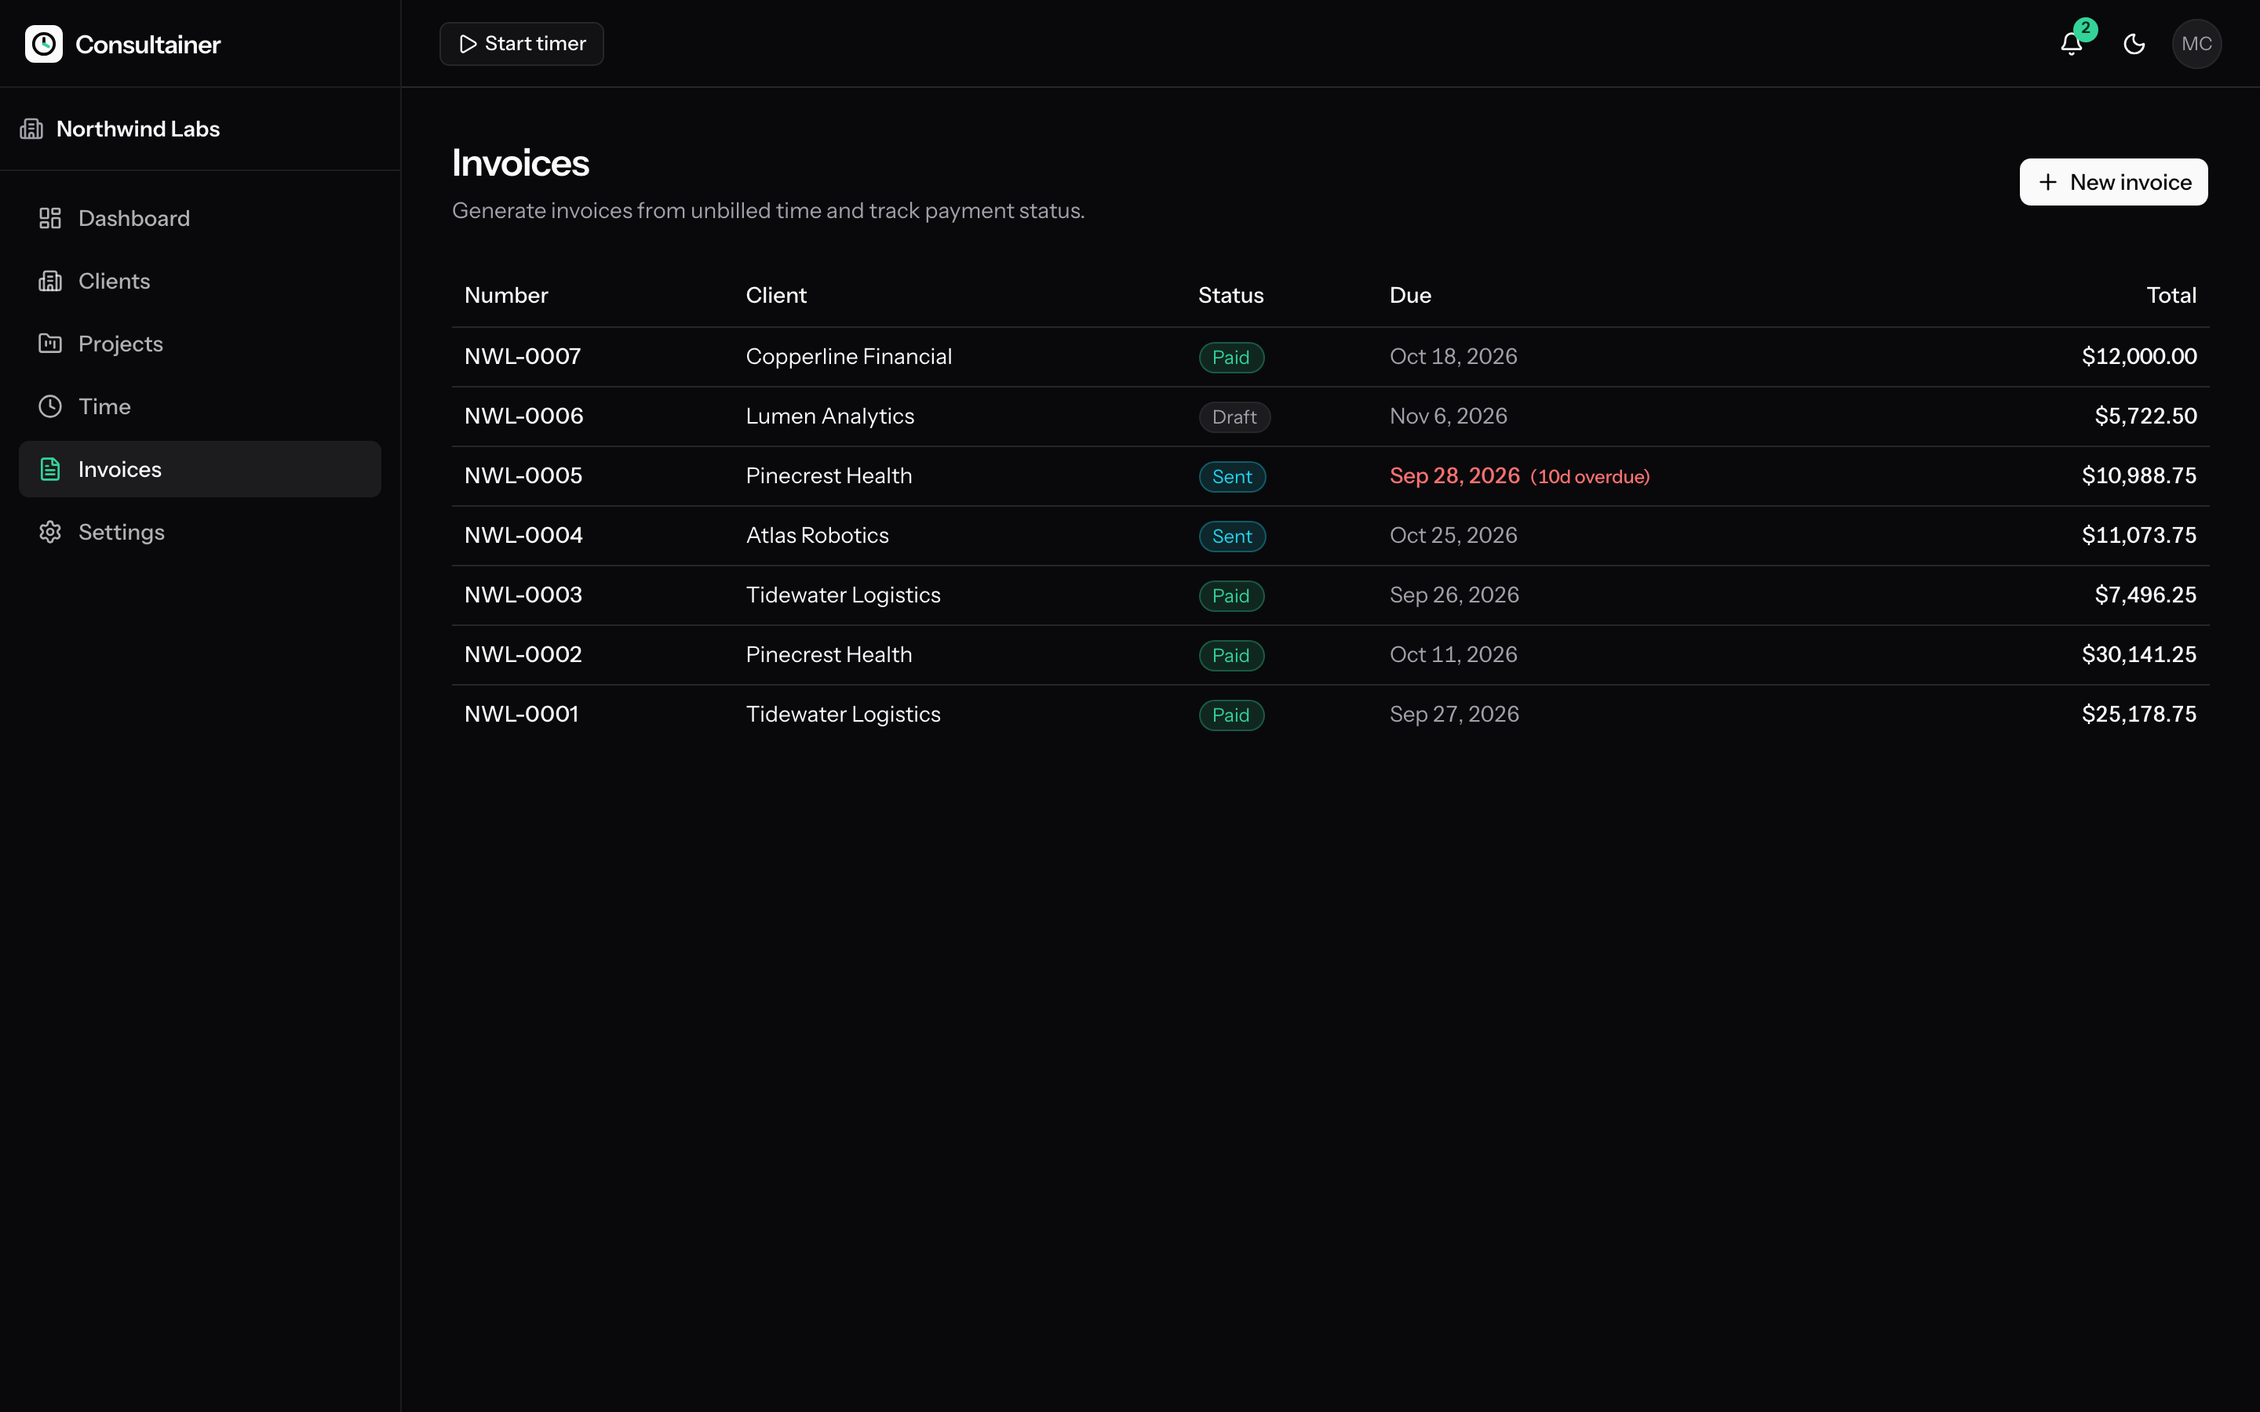
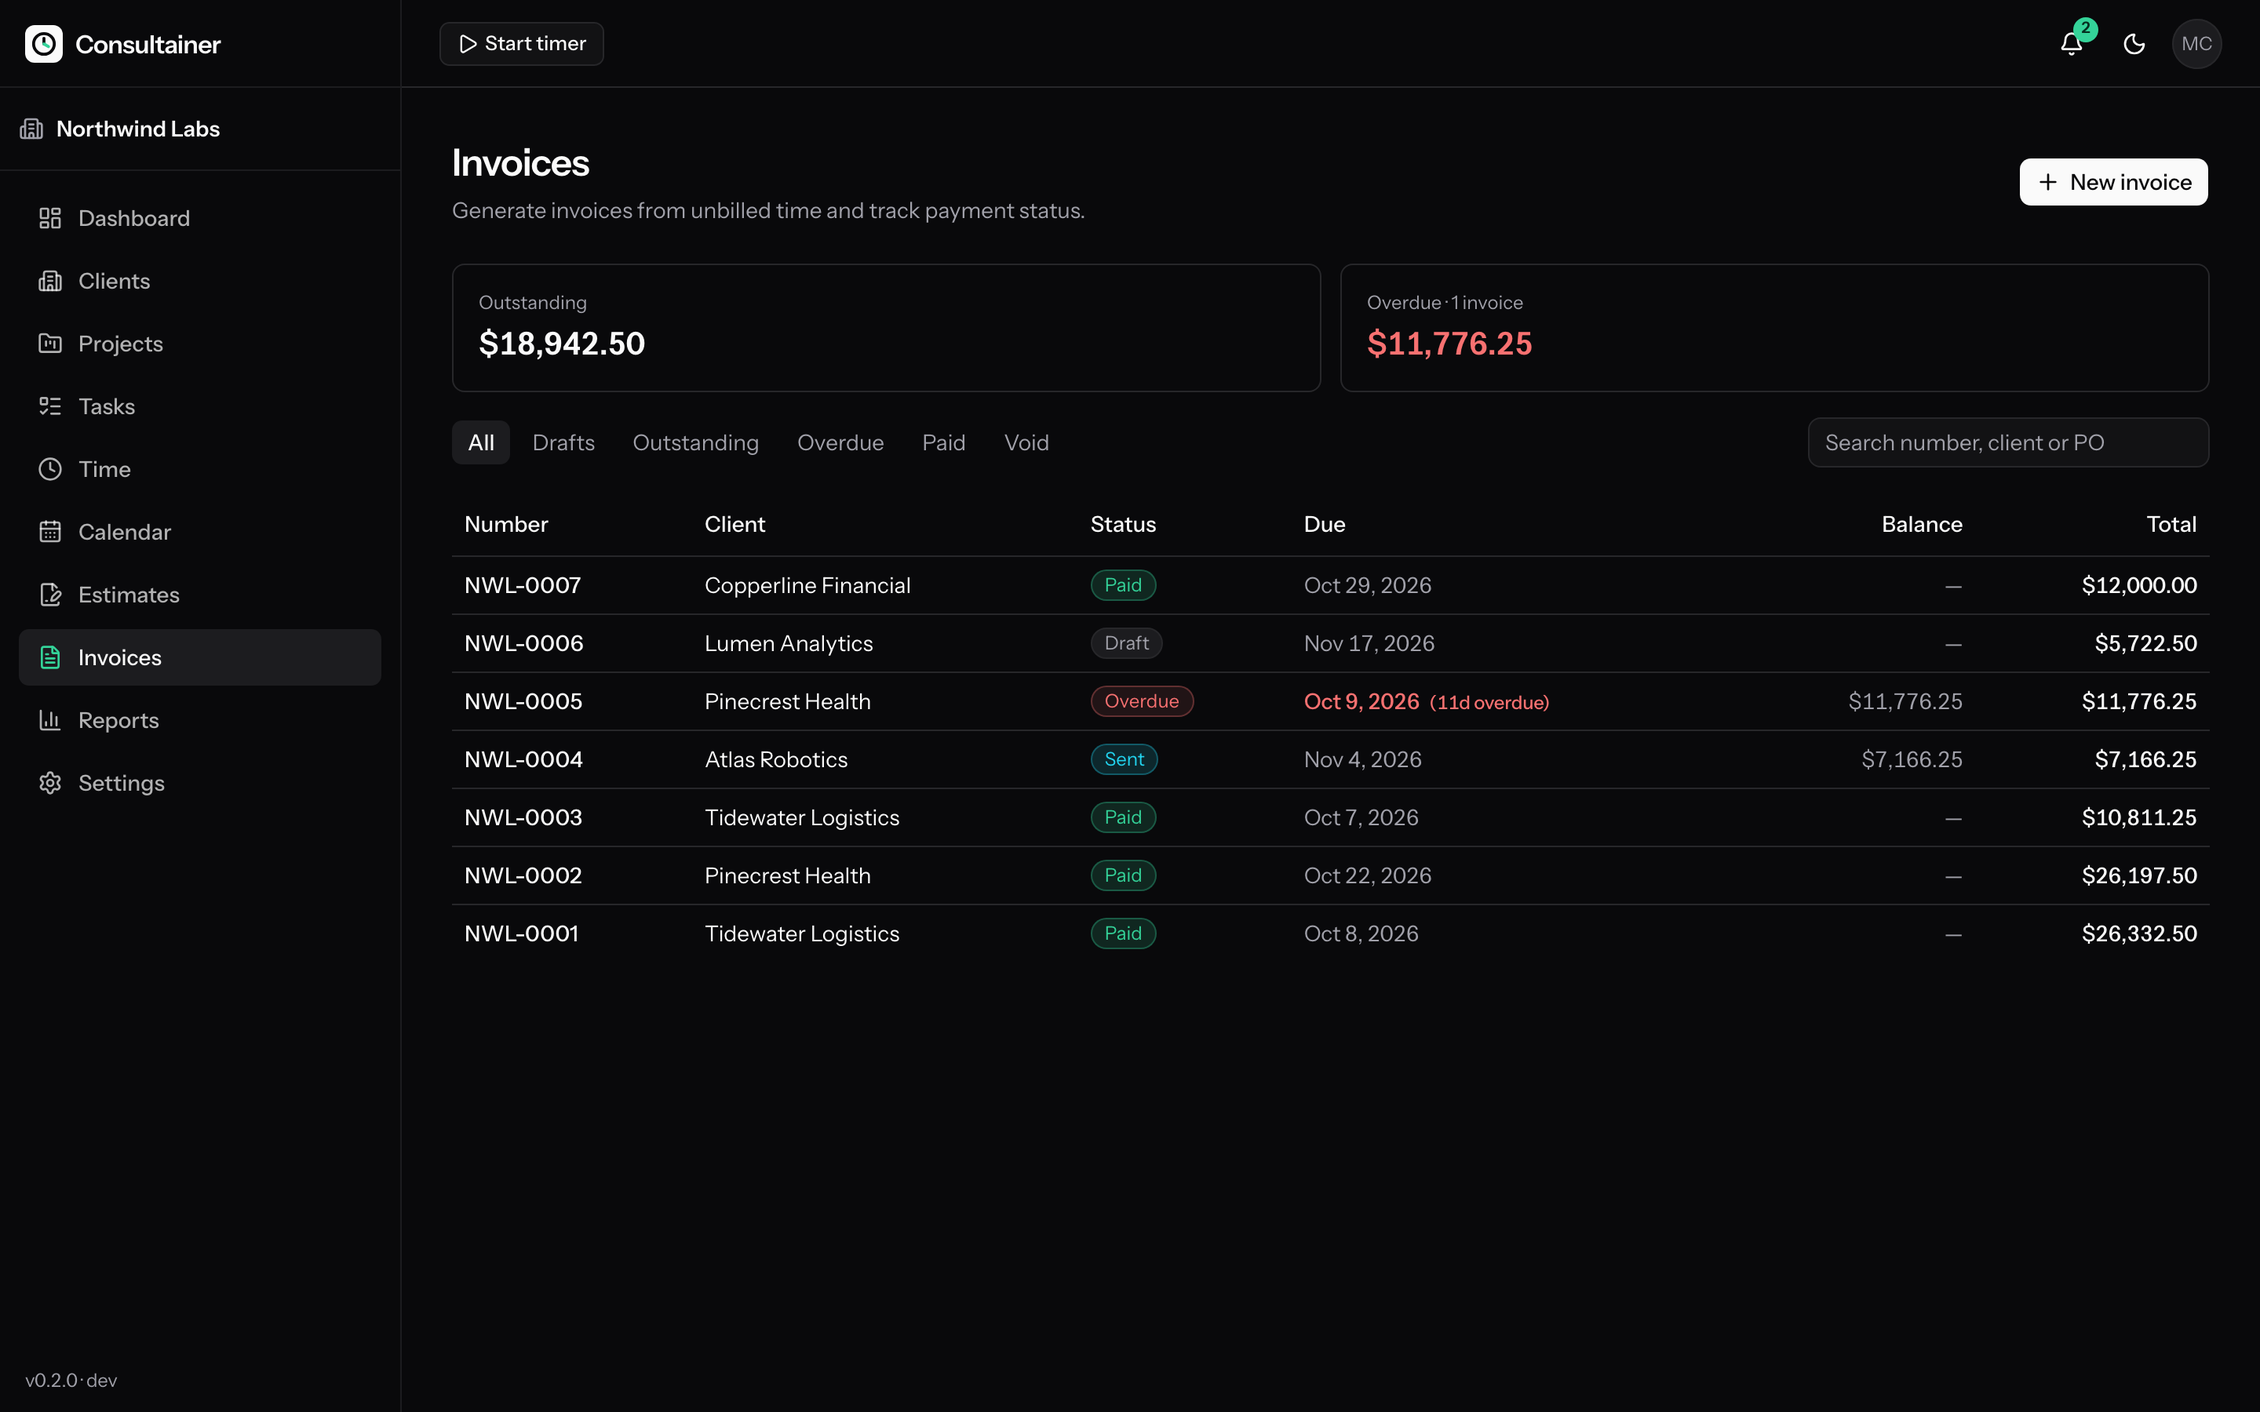
Website: a month at a demo consultancy, with more screenshots
A Scenarios section on consultainer.app and in the README walks through a
month at the fictional Northwind Labs: email setup, a deposit before
kickoff, an invoice sent with its PDF and timesheet, the client's view,
the phone app and reports. scripts/screenshots.mjs now captures those
scenes, and the demo data gains clock times, a viewed client invoice,
payments, cost rates and business details. All screenshots are refreshed.

Claude-Session: https://claude.ai/code/session_019gPBc82RAL3CvhBrb6EBnw

diff --git a/site/index.html b/site/index.html
@@ -82,12 +82,26 @@
     .row h3 { font-size: 22px; letter-spacing: -0.015em; margin: 0 0 10px; font-weight: 600; }
     .row p { color: var(--muted); margin: 0; }
 
+    .scenarios { display: grid; grid-template-columns: 1fr 1fr; gap: 40px 32px; }
+    .scenario { margin: 0; display: flex; flex-direction: column; gap: 14px; }
+    .scenario figcaption { display: flex; flex-direction: column; gap: 6px; }
+    .scenario .step {
+      font: 500 12px/1 "JetBrains Mono", ui-monospace, monospace; color: var(--brand);
+      text-transform: uppercase; letter-spacing: 0.08em;
+    }
+    .scenario h3 { font-size: 19px; letter-spacing: -0.01em; margin: 0; font-weight: 600; }
+    .scenario p { color: var(--muted); margin: 0; font-size: 15px; }
+    .scenario.phone { flex-direction: row; align-items: center; gap: 28px; }
+    .scenario.phone picture { flex: 0 0 38%; }
+    .scenario.phone .shot { border-radius: 20px; }
+
     footer {
       margin-top: 112px; padding: 32px 0 48px; border-top: 1px solid var(--border);
       color: var(--muted); font-size: 14px; display: flex; justify-content: space-between; gap: 16px; flex-wrap: wrap;
     }
     @media (max-width: 820px) {
-      .quickstart, .row, .row:nth-child(even) { grid-template-columns: 1fr; gap: 24px; }
+      .quickstart, .row, .row:nth-child(even), .scenarios { grid-template-columns: 1fr; gap: 24px; }
+      .scenario.phone picture { flex-basis: 45%; }
       .row:nth-child(even) .copy { order: 0; }
       header { padding-top: 40px; }
       nav .links a:not(.gh) { display: none; }
@@ -111,6 +125,7 @@
       <div class="links">
         <a href="#quickstart">Quickstart</a>
         <a href="#tour">Tour</a>
+        <a href="#scenarios">Scenarios</a>
         <a href="docs/">Docs</a>
         <a class="gh" href="https://github.com/Armistice-Group/retainer">GitHub</a>
       </div>
@@ -183,8 +198,8 @@ docker compose up -d</pre>
         </div>
         <div class="row">
           <div class="copy">
-            <h3>Invoices from unbilled work</h3>
-            <p>Pull unbilled time, completed milestones, and expenses into an invoice in a few clicks. Email clients a link to view and pay it — and know when they open it. Take payment through Stripe or Mercury, push to QuickBooks.</p>
+            <h3>Invoices from unbilled work, or a set amount</h3>
+            <p>Pull unbilled time, completed milestones, and expenses into an invoice in a few clicks, or bill a set fee or deposit. Email clients a link to view and pay it, with the PDF and timesheet attached if they want them — and know when they open it. Take payment through Stripe or Mercury, push to QuickBooks.</p>
           </div>
           <picture>
             <source srcset="screenshots/invoices-dark.png" media="(prefers-color-scheme: dark)" />
@@ -201,6 +216,83 @@ docker compose up -d</pre>
             <img class="shot" src="screenshots/client-light.png" width="2880" height="1800" loading="lazy" alt="Client page with projects, invoices, and a bi-weekly billing cycle" />
           </picture>
         </div>
+      </div>
+    </section>
+
+    <section id="scenarios">
+      <h2>A month at a small consultancy</h2>
+      <p class="sub">
+        Northwind Labs is made up: four people, five clients, a mix of hourly, flat-fee and retainer work.
+        Here's how a month of it goes in Consultainer. Every screen is the real app on the demo data
+        that ships in the repo, so you can load it and click around yourself.
+      </p>
+      <div class="scenarios">
+        <figure class="scenario">
+          <picture>
+            <source srcset="screenshots/email-setup-dark.png" media="(prefers-color-scheme: dark)" />
+            <img class="shot" src="screenshots/email-setup-light.png" loading="lazy" alt="Email settings panel with SMTP chosen and Postmark's server filled in" />
+          </picture>
+          <figcaption>
+            <div class="step">Day 1 · Setup</div>
+            <h3>Email in two minutes, from the browser</h3>
+            <p>Maya, the owner, picks Resend or any SMTP server (Postmark, SES, Google Workspace…), pastes the settings and sends herself a test, or a sample of the invoice email clients get. No config files, no restart.</p>
+          </figcaption>
+        </figure>
+        <figure class="scenario">
+          <picture>
+            <source srcset="screenshots/deposit-dark.png" media="(prefers-color-scheme: dark)" />
+            <img class="shot" src="screenshots/deposit-light.png" loading="lazy" alt="New invoice form billing a set amount as a deposit" />
+          </picture>
+          <figcaption>
+            <div class="step">Day 2 · Kickoff</div>
+            <h3>Bill the deposit before any work is logged</h3>
+            <p>Atlas Robotics signs phase 2. Maya bills 50% up front: one line, $9,000, a note saying what it covers. Ticked as a deposit, the payment becomes Atlas's credit for the phase 2 invoices.</p>
+          </figcaption>
+        </figure>
+        <figure class="scenario">
+          <picture>
+            <source srcset="screenshots/email-invoice-dark.png" media="(prefers-color-scheme: dark)" />
+            <img class="shot" src="screenshots/email-invoice-light.png" loading="lazy" alt="Email invoice dialog with the PDF attached and the timesheet included" />
+          </picture>
+          <figcaption>
+            <div class="step">Day 30 · Invoicing</div>
+            <h3>Their accounts team wants the PDF and a timesheet</h3>
+            <p>Atlas's AP team files PDFs and checks hours. Maya attaches the PDF and includes the timesheet: every entry's date, start and end time, who did it and what. Ken still gets the link to pay online.</p>
+          </figcaption>
+        </figure>
+        <figure class="scenario">
+          <picture>
+            <source srcset="screenshots/client-invoice-dark.png" media="(prefers-color-scheme: dark)" />
+            <img class="shot" src="screenshots/client-invoice-light.png" loading="lazy" alt="Client-facing invoice page with payment details and a time detail table" />
+          </picture>
+          <figcaption>
+            <div class="step">Day 31 · The client's side</div>
+            <h3>What Atlas sees when they open it</h3>
+            <p>No login: the invoice, how to pay, and the timesheet, with any screenshots the team marked as evidence. Maya sees under Activity that Ken opened the email, the page and the PDF.</p>
+          </figcaption>
+        </figure>
+        <figure class="scenario phone">
+          <picture>
+            <source srcset="screenshots/phone-dark.png" media="(prefers-color-scheme: dark)" />
+            <img class="shot" src="screenshots/phone-light.png" loading="lazy" alt="Phone view with today's hours, a timer and recent entries" />
+          </picture>
+          <figcaption>
+            <div class="step">Every day</div>
+            <h3>Log time from your phone</h3>
+            <p>Sam, a contractor, installs the phone app from Chrome, starts a timer on Fleet Dashboard, and shares a screenshot straight into a time entry as evidence.</p>
+          </figcaption>
+        </figure>
+        <figure class="scenario">
+          <picture>
+            <source srcset="screenshots/reports-dark.png" media="(prefers-color-scheme: dark)" />
+            <img class="shot" src="screenshots/reports-light.png" loading="lazy" alt="Reports page with revenue and hours" />
+          </picture>
+          <figcaption>
+            <div class="step">Month end</div>
+            <h3>See where the month landed</h3>
+            <p>Hours, invoiced, received and outstanding, utilization by person and profit by project, with each table a CSV away, for Maya's monthly review.</p>
+          </figcaption>
+        </figure>
       </div>
     </section>
 

diff --git a/prisma/seed-demo.ts b/prisma/seed-demo.ts
@@ -39,6 +39,7 @@ async function main() {
       defaultCurrency: "USD",
       defaultBillRate: 175,
       nextInvoiceNumber: 1,
+      businessAddress: "100 Example Ave, Suite 4\nPortland, OR 97201",
     },
   });
 
@@ -72,15 +73,18 @@ async function main() {
   const people = [
     // billRate: their default when put on a project; Priya has none, so she
     // starts at the org's default.
-    { name: "Maya Chen", email: "maya@northwind.example", role: "OWNER", title: "Principal", billRate: 210 },
-    { name: "Diego Alvarez", email: "diego@northwind.example", role: "ADMIN", title: "Staff Engineer", billRate: 185 },
-    { name: "Priya Nair", email: "priya@northwind.example", role: "MEMBER", title: "Security Engineer" },
-    { name: "Sam Okafor", email: "sam@contractor.example", role: "MEMBER", title: "Designer", contractor: true, billRate: 140 },
+    { name: "Maya Chen", email: "maya@northwind.example", role: "OWNER", title: "Principal", billRate: 210, costRate: 115 },
+    { name: "Diego Alvarez", email: "diego@northwind.example", role: "ADMIN", title: "Staff Engineer", billRate: 185, costRate: 98 },
+    { name: "Priya Nair", email: "priya@northwind.example", role: "MEMBER", title: "Security Engineer", costRate: 92 },
+    { name: "Sam Okafor", email: "sam@contractor.example", role: "MEMBER", title: "Designer", contractor: true, billRate: 140, costRate: 95 },
   ] as const;
 
   const users: User[] = [];
   for (const p of people) {
-    const user = await prisma.user.create({ data: { name: p.name, email: p.email, passwordHash } });
+    // Maya has used it for a while and closed the dashboard's setup card.
+    const user = await prisma.user.create({
+      data: { name: p.name, email: p.email, passwordHash, setupCardDismissedAt: p.role === "OWNER" ? daysAgo(30) : null },
+    });
     await prisma.membership.create({
       data: {
         userId: user.id,
@@ -89,6 +93,7 @@ async function main() {
         title: p.title,
         employmentType: "contractor" in p ? "CONTRACTOR" : "EMPLOYEE",
         billRate: "billRate" in p ? p.billRate : null,
+        costRate: p.costRate,
       },
     });
     users.push(user);
@@ -303,6 +308,8 @@ async function main() {
       );
       if (theirs.length === 0 || rand() < 0.12) continue;
       const count = theirs.length > 1 && rand() < 0.5 ? 2 : 1;
+      // The day starts at 9:00; a second entry follows a lunch break.
+      let startMinute = 9 * 60;
       for (let i = 0; i < count; i++) {
         const p = pick(theirs);
         const hours = Math.round((count === 2 ? 2 + rand() * 3 : 4 + rand() * 4) * 4) / 4;
@@ -318,8 +325,11 @@ async function main() {
             hours,
             description: pick(p.def.work),
             billable: rand() > 0.08,
+            startMinute,
+            endMinute: startMinute + Math.round(hours * 60),
           },
         });
+        startMinute += Math.round(hours * 60) + 45;
         entries.push({ id: entry.id, projectId: p.project.id, userId: user.id, date, hours, rate });
       }
     }
@@ -392,7 +402,23 @@ async function main() {
   await invoiceFor(tidewater, 80, 42, "PAID", 41);
   await invoiceFor(pinecrest, 50, 28, "PAID", 27);
   const tidewaterCycleInvoice = await invoiceFor(tidewater, 42, 28, "PAID", 27, "NET15");
-  await invoiceFor(atlas, 32, 14, "SENT", 13);
+  // Atlas's sent invoice: emailed with its timesheet, and opened by the
+  // client (the website shows its client page at /i/demo-atlas-invoice).
+  const atlasInvoice = await invoiceFor(atlas, 32, 14, "SENT", 13);
+  if (atlasInvoice) {
+    await prisma.invoice.update({
+      where: { id: atlasInvoice.id },
+      data: { viewToken: "demo-atlas-invoice", timeDetail: true, viewCount: 3, firstViewedAt: daysAgo(12), lastViewedAt: daysAgo(2) },
+    });
+    await prisma.invoiceEvent.createMany({
+      data: [
+        { invoiceId: atlasInvoice.id, type: "EMAILED", recipients: ["ops@atlasrobotics.example"], actorId: maya.id, createdAt: daysAgo(13) },
+        { invoiceId: atlasInvoice.id, type: "EMAIL_OPENED", createdAt: daysAgo(12) },
+        { invoiceId: atlasInvoice.id, type: "VIEWED", createdAt: daysAgo(12) },
+        { invoiceId: atlasInvoice.id, type: "PDF_VIEWED", createdAt: daysAgo(2) },
+      ],
+    });
+  }
   await invoiceFor(pinecrest, 28, 14, "SENT", 40); // issued long ago → overdue
   await invoiceFor(lumen, 26, 7, "DRAFT", 0);
 
@@ -429,6 +455,23 @@ async function main() {
     ],
   });
   await prisma.organization.update({ where: { id: org.id }, data: { nextInvoiceNumber: invoiceNumber } });
+
+  // Paid invoices were paid in full, by bank transfer, on the day they're marked paid.
+  for (const paid of await prisma.invoice.findMany({ where: { orgId: org.id, status: "PAID" } })) {
+    await prisma.payment.create({
+      data: {
+        orgId: org.id,
+        invoiceId: paid.id,
+        clientId: paid.clientId,
+        amount: paid.total,
+        currency: paid.currency,
+        receivedAt: dateOnly(paid.paidAt ?? paid.issueDate),
+        method: "ACH",
+        recordedById: maya.id,
+      },
+    });
+    await prisma.invoice.update({ where: { id: paid.id }, data: { amountPaid: paid.total } });
+  }
 
   // Expenses.
   const fleet = projects.find((p) => p.def.name === "Fleet Dashboard")!.project;

diff --git a/README.md b/README.md
@@ -12,6 +12,14 @@ Client, project, and billing management for consultants and contractors. Track c
 | ![Time tracking](docs/screenshots/time-light.png) | ![Project with budget and rates](docs/screenshots/project-light.png) |
 | ![Invoices](docs/screenshots/invoices-light.png) | ![Client with a billing cycle](docs/screenshots/client-light.png) |
 
+**A month at a fictional consultancy**, from the demo data:
+
+| | |
+|---|---|
+| **Set up email from the browser** — Resend or any SMTP server, with a test send.<br>![Email settings](docs/screenshots/email-setup-light.png) | **Bill a deposit before any work** — a set amount, with notes, that becomes client credit.<br>![Deposit invoice](docs/screenshots/deposit-light.png) |
+| **Send the PDF and a timesheet** — for an accounts team that files PDFs and checks hours.<br>![Emailing an invoice](docs/screenshots/email-invoice-light.png) | **What the client sees** — no login: the invoice, how to pay, and the timesheet.<br>![Client invoice page](docs/screenshots/client-invoice-light.png) |
+| **Integrations in one place** — email, sign-in, payments, QuickBooks, Linear, files.<br>![Integrations](docs/screenshots/integrations-light.png) | **Reports** — utilization, profit by project, receivables.<br>![Reports](docs/screenshots/reports-light.png) |
+
 More at [consultainer.app](https://consultainer.app); full documentation at [consultainer.app/docs](https://consultainer.app/docs/) (source in [`docs/`](docs/introduction.mdx)). Screenshots use the fictional demo data in `prisma/seed-demo.ts`; regenerate them with `scripts/screenshots.mjs`.
 
 ## Stack
